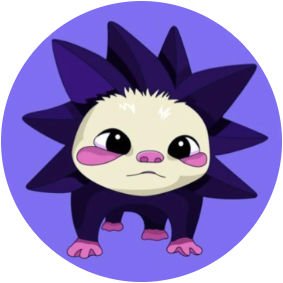
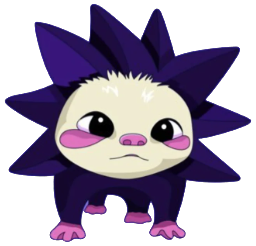
MONAGENT: yeni isim ve MA logosu, şeffaf maskot ayrı katmanda
- Maskotun mor zemini kenardan flood fill ile silindi (görsel şeffaf değildi)
- Halkalar ve platform sabit; sadece maskot hareket ediyor, dışarı taşabiliyor
- Maskotun altında zıplamayla küçülüp büyüyen ışık gölgesi
- Sol üstte 'Monad Hackathon · Ankara' alt yazısı kaldırıldı
- Sözleşme, testler ve ajan logları AgentGuard adıyla kaldı

diff --git a/frontend/src/index.css b/frontend/src/index.css
@@ -1,4 +1,4 @@
-/* AgentGuard teması: mor-mavi gece, Monad moru (#836EF9) vurgu, Ankara silüeti.
+/* MONAGENT teması: mor-mavi gece, Monad moru (#836EF9) vurgu, Ankara silüeti.
    Animasyonlar transform/opacity tabanlı (GPU'yu yormaz). Hareket azaltma açıksa sadece maskotun süzülmesi kalır. */
 :root {
   --bg-0: #050818;
@@ -94,9 +94,13 @@ button:disabled { opacity: 0.4; cursor: not-allowed; }
 .app { max-width: 1400px; margin: 0 auto; padding: 16px 20px 40px; }
 .header { display: flex; justify-content: space-between; align-items: center; gap: 12px; flex-wrap: wrap; padding: 4px 0 8px; position: relative; z-index: 20; }
 .brand { display: flex; gap: 12px; align-items: center; }
-.brand-logo { color: var(--monad); filter: drop-shadow(0 0 8px rgba(131, 110, 249, 0.8)); }
-.brand strong { display: block; font-size: 20px; letter-spacing: 0.01em; }
-.brand-sub { font-size: 12px; color: var(--muted); }
+.brand-mark {
+  width: 34px; height: 34px; display: grid; place-items: center; flex: none; border-radius: 10px;
+  background: linear-gradient(135deg, var(--monad), #5b3fe0); color: #fff;
+  font: 700 14px/1 var(--font); letter-spacing: 0.02em;
+  box-shadow: 0 0 0 1px rgba(179, 166, 255, 0.4), 0 0 16px rgba(131, 110, 249, 0.6);
+}
+.brand strong { font-size: 20px; line-height: 1; letter-spacing: 0.08em; }
 .header-right { display: flex; gap: 10px; align-items: center; flex-wrap: wrap; }
 
 /* ================= Sahne: ortada maskot, iki yanda kapsüller ================= */
@@ -168,7 +172,8 @@ button:disabled { opacity: 0.4; cursor: not-allowed; }
 
 /* ================= Maskot ================= */
 .mascot-wrap { position: relative; width: 100%; aspect-ratio: 1 / 1.02; }
-.hero-rings { position: absolute; inset: 0 0 6% 0; width: 100%; height: 94%; animation: spin 40s linear infinite; pointer-events: none; }
+/* Halkalar ve platform sabit: maskotla birlikte hareket etmez */
+.hero-rings { position: absolute; inset: 0 0 6% 0; width: 100%; height: 94%; pointer-events: none; z-index: 0; }
 .ring { fill: none; }
 .ring-dashed { stroke: var(--monad); stroke-width: 1.5; stroke-dasharray: 4 10; opacity: 0.7; }
 .ring-thin { stroke: var(--cyan); stroke-width: 1; opacity: 0.35; }
@@ -182,9 +187,9 @@ button:disabled { opacity: 0.4; cursor: not-allowed; }
 .hero-platform span:nth-child(2) { width: 72%; height: 42%; opacity: 0.6; animation: blink 3s ease-in-out infinite; }
 .hero-platform span:nth-child(3) { width: 44%; height: 24%; opacity: 0.9; background: rgba(90, 215, 255, 0.15); }
 
-/* Katman 1: idle süzülme + nefes */
+/* Katman 1: idle süzülme + nefes. Halkaların önünde ayrı katman; zıplarken dışarı taşabilir. */
 .mascot-bob {
-  position: absolute; left: 50%; top: 46%; width: 66%; aspect-ratio: 1; translate: -50% -50%;
+  position: absolute; left: 50%; top: 44%; width: 70%; aspect-ratio: 1; translate: -50% -50%; z-index: 2; overflow: visible;
   animation: bob 5s ease-in-out infinite, breathe-scale 3.6s ease-in-out infinite;
 }
 @keyframes bob { 0%, 100% { translate: -50% -50%; } 50% { translate: -50% -54%; } }
@@ -196,7 +201,7 @@ button:disabled { opacity: 0.4; cursor: not-allowed; }
 @keyframes sway { 0%, 100% { rotate: -3deg; } 50% { rotate: 3deg; } }
 
 /* Katman 3: tek seferlik hareketler */
-.mascot-act { all: unset; display: block; width: 100%; height: 100%; border-radius: 50%; cursor: pointer; }
+.mascot-act { all: unset; display: block; width: 100%; height: 100%; cursor: pointer; overflow: visible; }
 .mascot-act:focus-visible { outline: 2px solid var(--monad-2); outline-offset: 6px; }
 .act-flip { animation: flip 0.9s cubic-bezier(0.2, 0.8, 0.3, 1); }
 .act-hop { animation: hop 0.6s ease-out; }
@@ -227,11 +232,37 @@ button:disabled { opacity: 0.4; cursor: not-allowed; }
   80% { transform: translateX(2%) rotate(2deg); }
 }
 
+/* Şeffaf maskot: daire yok. Koyu mor dikenler zemine karışmasın diye görselin şeklini izleyen hafif ışık. */
 .mascot {
-  display: block; width: 100%; height: 100%; border-radius: 50%; user-select: none;
-  box-shadow: 0 0 0 4px rgba(131, 110, 249, 0.35), 0 0 70px rgba(131, 110, 249, 0.65), 0 0 140px rgba(61, 123, 255, 0.35);
+  display: block; width: 100%; height: 100%; object-fit: contain; user-select: none;
+  filter: drop-shadow(0 0 2px rgba(214, 206, 255, 0.9)) drop-shadow(0 0 22px rgba(131, 110, 249, 0.6));
 }
-.mascot-missing { display: grid; place-items: center; border: 2px dashed var(--line); color: var(--muted); font-size: 12px; }
+.mascot-missing { display: grid; place-items: center; border: 2px dashed var(--line); border-radius: 50%; color: var(--muted); font-size: 12px; }
+
+/* Gölge / ışık halkası: maskot yükselince küçülür ve solar, inince büyür.
+   Süreleri maskotunkilerle aynı (bob 5s, flip 0.9s, hop 0.6s) → eş zamanlı oynar. */
+.mascot-shadow {
+  position: absolute; left: 50%; top: 79%; width: 42%; height: 7%; translate: -50% -50%; z-index: 1; border-radius: 50%;
+  background: radial-gradient(closest-side, rgba(90, 215, 255, 0.45), rgba(131, 110, 249, 0.3) 55%, transparent);
+  animation: shadow-bob 5s ease-in-out infinite;
+}
+@keyframes shadow-bob { 0%, 100% { scale: 1; opacity: 1; } 50% { scale: 0.88; opacity: 0.75; } }
+.sh-flip { animation: shadow-bob 5s ease-in-out infinite, shadow-flip 0.9s cubic-bezier(0.2, 0.8, 0.3, 1); }
+.sh-hop { animation: shadow-bob 5s ease-in-out infinite, shadow-hop 0.6s ease-out; }
+@keyframes shadow-flip {
+  0% { transform: scale(1); }
+  14% { transform: scale(1.12, 1); }
+  45% { transform: scale(0.45); opacity: 0.35; }
+  72% { transform: scale(0.9); }
+  82% { transform: scale(1.18, 1.05); }
+  100% { transform: scale(1); }
+}
+@keyframes shadow-hop {
+  0% { transform: scale(1); }
+  50% { transform: scale(0.7); opacity: 0.6; }
+  80% { transform: scale(1.08, 1); }
+  100% { transform: scale(1); }
+}
 
 /* Onay / red halkası */
 .mascot-flash { position: absolute; inset: -5%; border-radius: 50%; border: 4px solid; pointer-events: none; animation: flash 1.2s ease-out forwards; }
@@ -344,5 +375,6 @@ button:disabled { opacity: 0.4; cursor: not-allowed; }
 @media (prefers-reduced-motion: reduce) {
   *, *::before, *::after { animation: none !important; transition-duration: 0.01ms !important; }
   .mascot-bob { animation: bob 6s ease-in-out infinite !important; }
+  .mascot-shadow { animation: shadow-bob 6s ease-in-out infinite !important; }
   .layer { translate: none !important; }
 }

diff --git a/frontend/src/components/Mascot.tsx b/frontend/src/components/Mascot.tsx
@@ -1,8 +1,9 @@
-// Ortadaki maskot. Animasyonlar iç içe katmanlarda, böylece birbirini ezmez:
+// Ortadaki sahne. Sabit katman: halkalar + platform. Hareketli katman: sadece maskot görseli.
+// Maskot katmanları iç içe, böylece animasyonlar birbirini ezmez:
 //   .mascot-bob   → sürekli süzülme + nefes (idle)
 //   .mascot-sway  → onay beklerken yerinde sallanma
 //   .mascot-act   → tek seferlik hareket: takla / zıplama / kafa sallama (CSS keyframes)
-// Halka (.mascot-flash) onayda yeşil, redde kırmızı parlar.
+// Altındaki gölge (.mascot-shadow) aynı zamanlamayla küçülür/büyür: maskot yükselince küçülür.
 import { useCallback, useEffect, useRef, useState } from "react";
 
 export type Reaction = { kind: "approve" | "reject"; n: number };
@@ -46,6 +47,7 @@ export function Mascot({ reaction, pending }: { reaction: Reaction | null; pendi
 
   return (
     <div className="mascot-wrap">
+      {/* Sabit katman: maskotla birlikte hareket etmez */}
       <svg className="hero-rings" viewBox="0 0 400 400" aria-hidden="true">
         <circle cx="200" cy="200" r="188" className="ring ring-dashed" />
         <circle cx="200" cy="200" r="165" className="ring ring-thin" />
@@ -56,7 +58,9 @@ export function Mascot({ reaction, pending }: { reaction: Reaction | null; pendi
         <span />
         <span />
       </div>
+      <div className={act ? `mascot-shadow sh-${act}` : "mascot-shadow"} aria-hidden="true" />
 
+      {/* Hareketli katman: sadece maskot; dışarı taşabilir (overflow: visible) */}
       <div className="mascot-bob">
         <div className={pending ? "mascot-sway on" : "mascot-sway"}>
           <button
@@ -72,7 +76,7 @@ export function Mascot({ reaction, pending }: { reaction: Reaction | null; pendi
             {missing ? (
               <span className="mascot mascot-missing">public/mascot.png</span>
             ) : (
-              <img className="mascot" src="/mascot.png" alt="AgentGuard maskotu" onError={() => setMissing(true)} draggable={false} />
+              <img className="mascot" src="/mascot.png" alt="MONAGENT maskotu" onError={() => setMissing(true)} draggable={false} />
             )}
           </button>
           {flash && <span key={flash.n} className={`mascot-flash ${flash.tone}`} aria-hidden="true" />}

diff --git a/frontend/src/components/Header.tsx b/frontend/src/components/Header.tsx
@@ -1,6 +1,5 @@
 import type { Address } from "viem";
 import { GUARD, addressUrl, short } from "../lib/chain";
-import { MonadLogo } from "./MonadLogo";
 
 type Props = {
   account: Address | null;
@@ -12,11 +11,10 @@ export function Header({ account, isOwner, onConnect }: Props) {
   return (
     <header className="header">
       <div className="brand">
-        <MonadLogo size={30} className="brand-logo" />
-        <div>
-          <strong>AgentGuard</strong>
-          <span className="brand-sub">Monad Hackathon · Ankara</span>
-        </div>
+        <span className="brand-mark" aria-hidden="true">
+          MA
+        </span>
+        <strong>MONAGENT</strong>
       </div>
       <div className="header-right">
         <a className="pill" href={addressUrl(GUARD)} target="_blank" rel="noreferrer">

diff --git a/frontend/src/App.tsx b/frontend/src/App.tsx
@@ -150,7 +150,7 @@ export default function App() {
           <div className="stage-center">
             <Mascot reaction={reaction} pending={openPending > 0} />
             <div className="hero-caption">
-              <h1>AgentGuard</h1>
+              <h1>MONAGENT</h1>
               <p>Yapay zekâ ajanlarının harcama yetkisini zincirde denetleyen güvenlik katmanı</p>
               <div className="hero-status">
                 <span className={state && !stateError ? "live-dot" : "live-dot off"} />

diff --git a/frontend/src/components/FlowCard.tsx b/frontend/src/components/FlowCard.tsx
@@ -36,7 +36,7 @@ export function FlowCard({ items }: { items: Activity[] }) {
             </div>
           </li>
           <li>
-            <span className="flow-label">AgentGuard kararı</span>
+            <span className="flow-label">MONAGENT kararı</span>
             <span className={`pill ${DECISION[last.kind].tone}`}>{DECISION[last.kind].text}</span>
             {last.reason !== undefined && <div className="bad-text">{REJECT_REASONS[last.reason]}</div>}
           </li>

diff --git a/frontend/index.html b/frontend/index.html
@@ -4,7 +4,7 @@
     <meta charset="UTF-8" />
     <link rel="icon" type="image/svg+xml" href="/favicon.svg" />
     <meta name="viewport" content="width=device-width, initial-scale=1.0" />
-    <title>AgentGuard</title>
+    <title>MONAGENT</title>
     <meta name="theme-color" content="#050818" />
     <link rel="preconnect" href="https://fonts.googleapis.com" />
     <link rel="preconnect" href="https://fonts.gstatic.com" crossorigin />

diff --git a/README.md b/README.md
@@ -1,7 +1,7 @@
-# AgentGuard
+# MONAGENT
 
 Yapay zekâ ajanları ücretli API'leri kendi başına kullanmaya başladı. Ama ajana cüzdanını
-verirsen ne kadar, kime, ne için harcayacağını kontrol edemezsin. **AgentGuard**, ajanın
+verirsen ne kadar, kime, ne için harcayacağını kontrol edemezsin. **MONAGENT**, ajanın
 harcama yetkisini Monad üzerindeki bir sözleşmeyle sınırlar:
 
 - Servis **HTTP 402 Payment Required** döner ("0.02 MON, şu adrese").
@@ -16,7 +16,7 @@ harcama yetkisini Monad üzerindeki bir sözleşmeyle sınırlar:
 
 | | |
 |---|---|
-| AgentGuard | [`0x88015611D942479441fC72B35794F503cE538B0D`](https://testnet.monadvision.com/address/0x88015611D942479441fC72B35794F503cE538B0D) |
+| Sözleşme (AgentGuard.sol) | [`0x88015611D942479441fC72B35794F503cE538B0D`](https://testnet.monadvision.com/address/0x88015611D942479441fC72B35794F503cE538B0D) |
 | Chain ID | 10143 |
 | Kurallar | tek işlem 0.05 MON · toplam bütçe 0.2 MON · kapsam: security, test, lint |
 
@@ -34,7 +34,7 @@ npm run demo      # servisler + panel + ajan, tek komut
 3. 402 servislerini (`:4020`) ve paneli (`:5180`) başlatır, paneli tarayıcıda açar.
 4. Ajanı çalıştırır:
 
-| Servis | Fiyat | Kategori | AgentGuard kararı |
+| Servis | Fiyat | Kategori | MONAGENT kararı |
 |---|---|---|---|
 | SecureScan | 0.02 MON | security | allowlist'te → **otomatik onay** |
 | TestRunner Pro | 0.03 MON | test | allowlist dışı → **panelden kullanıcı onayı** |

diff --git a/CLAUDE.md b/CLAUDE.md
@@ -1,4 +1,7 @@
-# Proje: AgentGuard (Monad hackathon, tek günlük demo)
+# Proje: MONAGENT (eski adı AgentGuard; Monad hackathon, tek günlük demo)
+
+Arayüz, README ve package adları MONAGENT. Solidity sözleşmesi, testler, deploy scripti ve ajan logları
+bilerek `AgentGuard` adıyla kaldı (sözleşme adını değiştirmek yeniden deploy gerektirir).
 
 Ben öğrenciyim. Bu projeyle Solidity, viem ve React öğrenmek istiyorum.
 - Her adımda önce ne yapacağını ve nedenini kısaca Türkçe açıkla.
